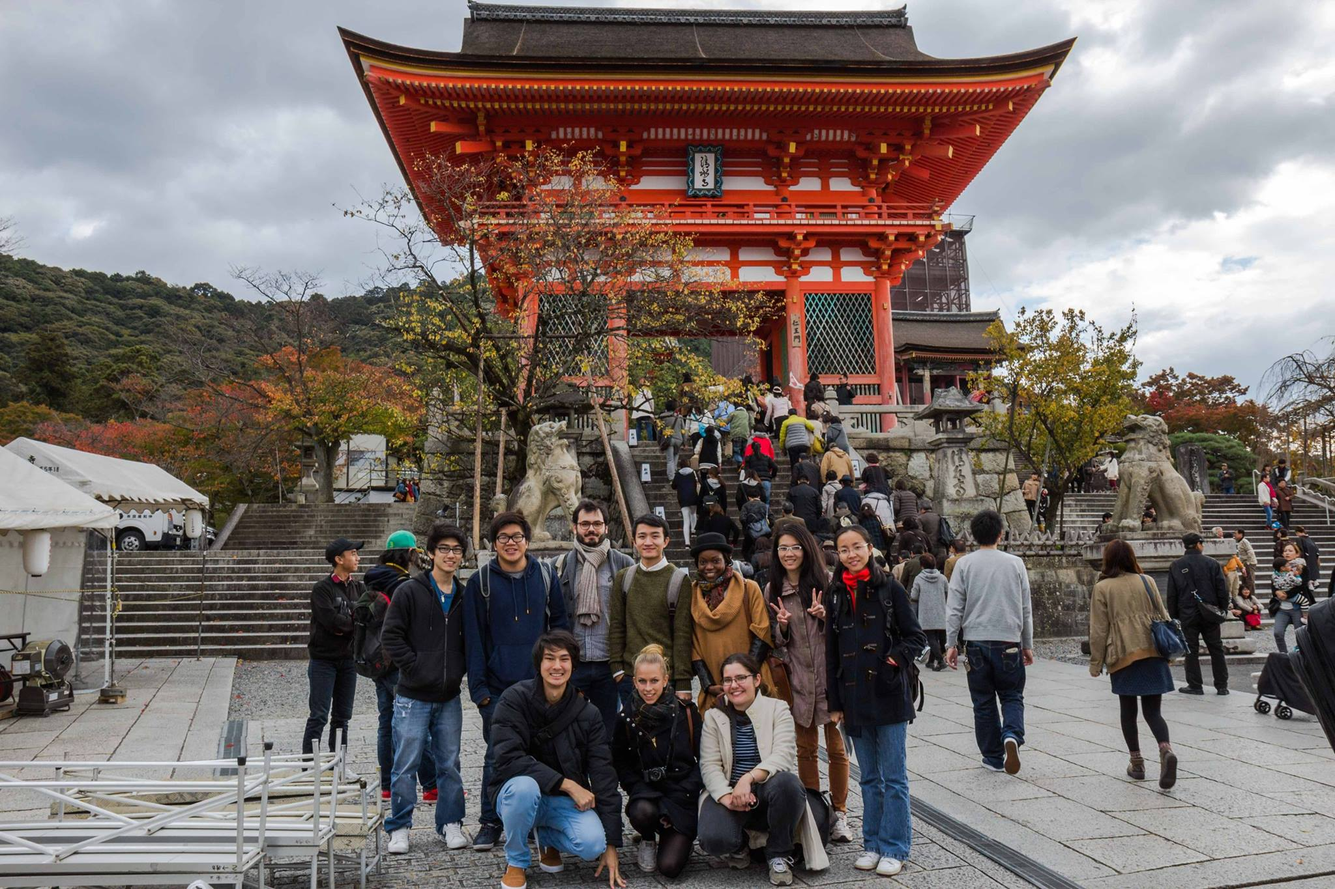
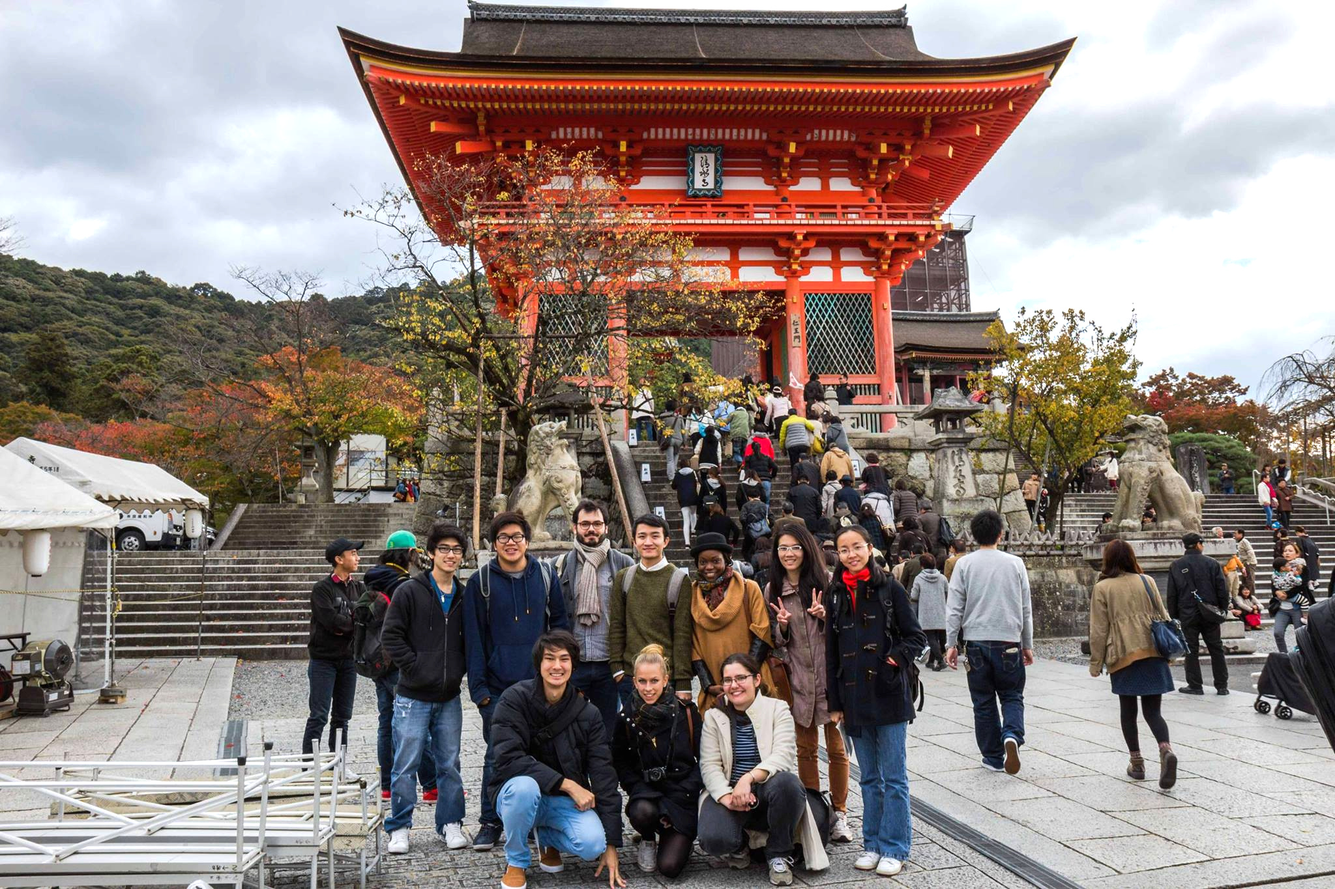
rebuilding site sex jul 17 14:28:16 -03 2020

diff --git a/en/gallery/index.html b/en/gallery/index.html
@@ -768,7 +768,7 @@
       
     
   <a data-fancybox="gallery-album" href="/en/gallery/album/2014_kyoto.jpg" data-caption="Kyoto - Japan - 2014">
-  <img data-src="/en/gallery/album/2014_kyoto_hu2535ce107883d0fd3e6034038ee42cea_442739_0x190_resize_q90_lanczos.jpg" class="lazyload" alt="" width="285" height="190">
+  <img data-src="/en/gallery/album/2014_kyoto_huc97e9177b72e5674a4f09a0f3a07dc46_968645_0x190_resize_q90_lanczos.jpg" class="lazyload" alt="" width="285" height="190">
   </a>
   
     

diff --git a/gallery/index.html b/gallery/index.html
@@ -768,7 +768,7 @@
       
     
   <a data-fancybox="gallery-album" href="/gallery/album/2014_kyoto.jpg" data-caption="Kyoto - Japão - 2014">
-  <img data-src="/gallery/album/2014_kyoto_hu2535ce107883d0fd3e6034038ee42cea_442739_0x190_resize_q90_lanczos.jpg" class="lazyload" alt="" width="285" height="190">
+  <img data-src="/gallery/album/2014_kyoto_huc97e9177b72e5674a4f09a0f3a07dc46_968645_0x190_resize_q90_lanczos.jpg" class="lazyload" alt="" width="285" height="190">
   </a>
   
     
